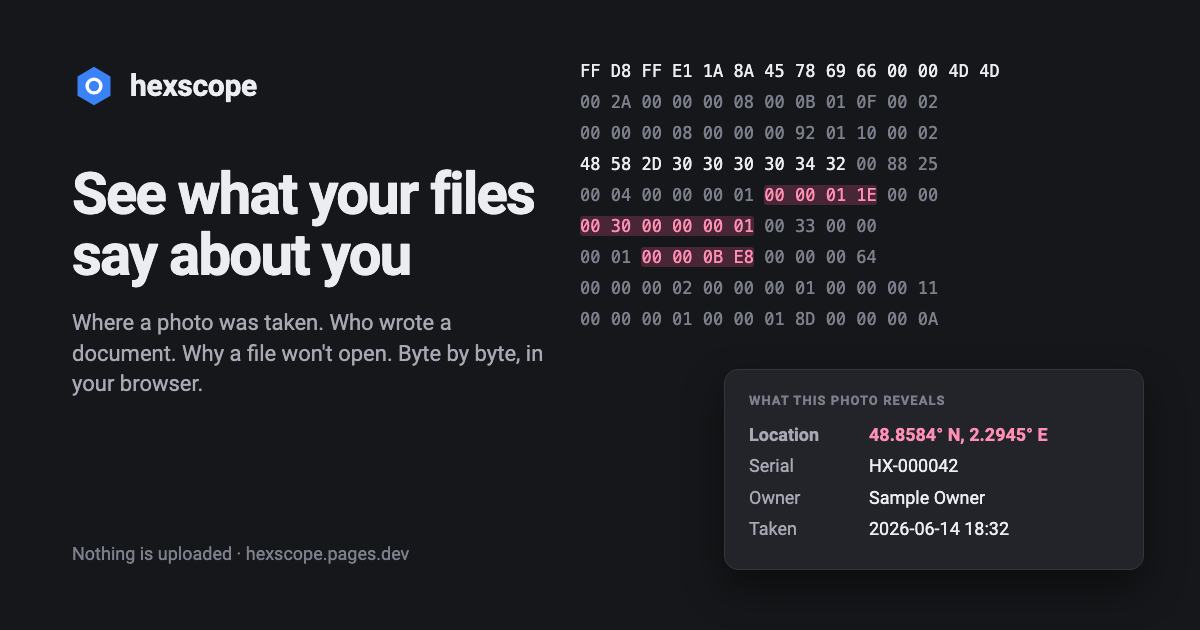
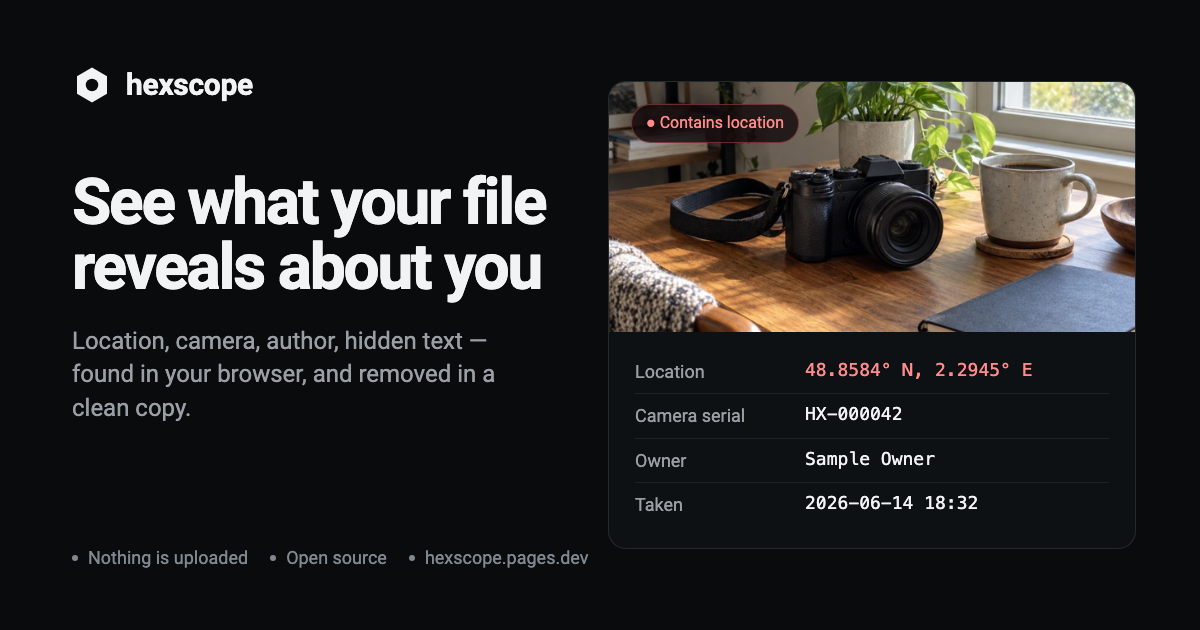
docs: a link preview in the site's look, and a recorded demo for the README
scripts/brand/og.html is redrawn in graphite with the landing's headline and
the sample photo's findings; scripts/make-demo.mjs records the built site
opening the sample photo, showing what it gives away and checking its clean
copy, into docs/demo.gif (1.9 MB), which leads the README.

diff --git a/scripts/brand/og.html b/scripts/brand/og.html
@@ -1,51 +1,46 @@
 <!doctype html>
 <html><head><meta charset="utf-8"><style>
+  /* The link preview, in the site's graphite: rendered by scripts/make-brand-images.sh. */
   * { box-sizing: border-box; }
-  body { margin: 0; width: 1200px; height: 630px; overflow: hidden; background: #16171a; color: #ecedf0;
-         font: 16px/1.4 -apple-system, "SF Pro Text", "Segoe UI", Roboto, sans-serif; display: grid;
-         grid-template-columns: 560px 1fr; }
-  .left { padding: 64px 0 64px 72px; display: flex; flex-direction: column; }
-  .brand { display: flex; align-items: center; gap: 14px; font-size: 30px; font-weight: 700; letter-spacing: -0.01em; }
-  .brand svg { width: 44px; height: 44px; }
-  h1 { font-size: 58px; line-height: 1.05; letter-spacing: -0.03em; margin: 56px 0 22px; }
-  p { font-size: 22px; color: #a6a9b3; margin: 0; }
-  .foot { margin-top: auto; font-size: 18px; color: #7c808c; }
-  .right { position: relative; padding: 56px 56px 56px 20px; }
-  .hex { font: 17px/31px "SF Mono", Menlo, monospace; color: #7c808c; }
-  .hex b { font-weight: 400; color: #ecedf0; }
-  .row { white-space: pre; }
-  .gps { background: rgba(255,95,150,.22); color: #ff8fb4 !important; border-radius: 3px; }
-  .card { position: absolute; right: 56px; bottom: 60px; width: 420px; padding: 22px 24px; border-radius: 14px;
-          background: #22242a; border: 1px solid #34363e; box-shadow: 0 18px 40px rgba(0,0,0,.45); }
-  .card h2 { margin: 0 0 12px; font-size: 13px; letter-spacing: .08em; text-transform: uppercase; color: #7c808c; }
-  .fact { display: grid; grid-template-columns: 120px 1fr; font-size: 18px; margin: 6px 0; }
-  .fact i { font-style: normal; color: #a6a9b3; }
-  .fact.loc { color: #ff8fb4; font-weight: 600; }
+  body { margin: 0; width: 1200px; height: 630px; overflow: hidden; background: #090b0d; color: #f2f3f4;
+         font: 16px/1.4 -apple-system, "SF Pro Text", "Segoe UI", Roboto, sans-serif;
+         display: grid; grid-template-columns: 600px 1fr; }
+  .left { padding: 64px 0 60px 72px; display: flex; flex-direction: column; }
+  .brand { display: flex; align-items: center; gap: 14px; font-size: 30px; font-weight: 650; letter-spacing: -0.01em; }
+  .brand svg { width: 40px; height: 40px; }
+  h1 { font-size: 64px; line-height: 1.02; letter-spacing: -0.035em; margin: 64px 0 24px; font-weight: 700; }
+  p { font-size: 24px; line-height: 1.4; color: #9a9fa6; margin: 0; max-width: 480px; }
+  .foot { margin-top: auto; display: flex; gap: 22px; font-size: 18px; color: #808890; }
+  .foot span::before { content: ""; display: inline-block; width: 6px; height: 6px; margin: 0 10px 3px 0;
+                       border-radius: 50%; background: #808890; }
+  .right { padding: 56px 64px 56px 8px; display: flex; align-items: center; }
+  .card { width: 100%; border: 1px solid rgba(255,255,255,.1); border-radius: 18px; background: #0e1114; overflow: hidden; }
+  .photo { position: relative; height: 250px; background: url("../../apps/web/public/samples/photo.jpg") center 58% / cover; }
+  .pin { position: absolute; left: 22px; top: 22px; padding: 7px 14px; border-radius: 999px; font-size: 16px;
+         color: #ff8b8b; background: rgba(20,10,12,.82); border: 1px solid rgba(255,107,107,.35); }
+  .facts { padding: 18px 26px 22px; }
+  .fact { display: grid; grid-template-columns: 170px 1fr; padding: 9px 0; font-size: 18px;
+          border-top: 1px solid rgba(255,255,255,.07); }
+  .fact:first-child { border-top: 0; }
+  .fact i { font-style: normal; color: #9a9fa6; }
+  .fact b { font: 500 18px "SF Mono", Menlo, monospace; color: #f2f3f4; }
+  .fact.loc b { color: #ff8b8b; }
 </style></head><body>
   <div class="left">
-    <div class="brand"><svg viewBox="0 0 32 32"><path d="M16 2 28 9v14l-12 7-12-7V9z" fill="#3b82f6"/><circle cx="16" cy="16" r="5" fill="none" stroke="#fff" stroke-width="2.5"/></svg>hexscope</div>
-    <h1>See what your files say about you</h1>
-    <p>Where a photo was taken. Who wrote a document. Why a file won't open. Byte by byte, in your browser.</p>
-    <div class="foot">Nothing is uploaded · hexscope.pages.dev</div>
+    <div class="brand"><svg viewBox="0 0 32 32"><path d="M16 2 28 9v14l-12 7-12-7V9z" fill="#f2f3f4"/><circle cx="16" cy="16" r="5" fill="#090b0d"/></svg>hexscope</div>
+    <h1>See what your file reveals about you</h1>
+    <p>Location, camera, author, hidden text — found in your browser, and removed in a clean copy.</p>
+    <div class="foot"><span>Nothing is uploaded</span><span>Open source</span><span>hexscope.pages.dev</span></div>
   </div>
   <div class="right">
-    <div class="hex">
-      <div class="row"><b>FF D8 FF E1 1A 8A 45 78 69 66 00 00 4D 4D</b></div>
-      <div class="row">00 2A 00 00 00 08 00 0B 01 0F 00 02</div>
-      <div class="row">00 00 00 08 00 00 00 92 01 10 00 02</div>
-      <div class="row"><b>48 58 2D 30 30 30 30 34 32</b> 00 88 25</div>
-      <div class="row">00 04 00 00 00 01 <span class="gps">00 00 01 1E</span> 00 00</div>
-      <div class="row"><span class="gps">00 30 00 00 00 01</span> 00 33 00 00</div>
-      <div class="row">00 01 <span class="gps">00 00 0B E8</span> 00 00 00 64</div>
-      <div class="row">00 00 00 02 00 00 00 01 00 00 00 11</div>
-      <div class="row">00 00 00 01 00 00 01 8D 00 00 00 0A</div>
-    </div>
     <div class="card">
-      <h2>What this photo reveals</h2>
-      <div class="fact loc"><i>Location</i>48.8584° N, 2.2945° E</div>
-      <div class="fact"><i>Serial</i>HX-000042</div>
-      <div class="fact"><i>Owner</i>Sample Owner</div>
-      <div class="fact"><i>Taken</i>2026-06-14 18:32</div>
+      <div class="photo"><div class="pin">● Contains location</div></div>
+      <div class="facts">
+        <div class="fact loc"><i>Location</i><b>48.8584° N, 2.2945° E</b></div>
+        <div class="fact"><i>Camera serial</i><b>HX-000042</b></div>
+        <div class="fact"><i>Owner</i><b>Sample Owner</b></div>
+        <div class="fact"><i>Taken</i><b>2026-06-14 18:32</b></div>
+      </div>
     </div>
   </div>
 </body></html>

diff --git a/apps/web/index.html b/apps/web/index.html
@@ -14,7 +14,7 @@
     <meta property="og:image" content="https://hexscope.pages.dev/og.png" />
     <meta property="og:image:width" content="1200" />
     <meta property="og:image:height" content="630" />
-    <meta property="og:image:alt" content="hexscope: a photo taken apart, with its location, camera serial number and owner highlighted in its bytes." />
+    <meta property="og:image:alt" content="hexscope: a sample photo and what it reveals — where it was taken, the camera's serial number, the owner and the date." />
     <meta name="twitter:card" content="summary_large_image" />
     <link rel="manifest" href="./manifest.webmanifest" />
     <link rel="apple-touch-icon" href="./icon-192.png" />

diff --git a/CHANGELOG.md b/CHANGELOG.md
@@ -26,6 +26,8 @@ change what the CLI's JSON says. How a version is made: [docs/releasing.md](docs
   extra ones open — the answer and the actions stay on the overview.
 - **A status bar under the bytes:** the byte under the pointer on the left,
   the part chosen and the file's size on the right.
+- A new link preview in the site's look, and a demo at the top of the README
+  (`scripts/make-demo.mjs` records it again).
 
 ### Fixed
 

diff --git a/README.md b/README.md
@@ -9,7 +9,7 @@ safely. Your files stay on your device.
 [Privacy](https://hexscope.pages.dev/your-files-stay-private) ·
 [Guides](https://hexscope.pages.dev/remove-location-from-photo)
 
-![Hexscope inspecting a photo's metadata and bytes](apps/web/public/og.png)
+![A sample photo opened in Hexscope: it gives away eight things, its location on a map, and a clean copy confirmed to have none of them](docs/demo.gif)
 
 ## Try it
 
